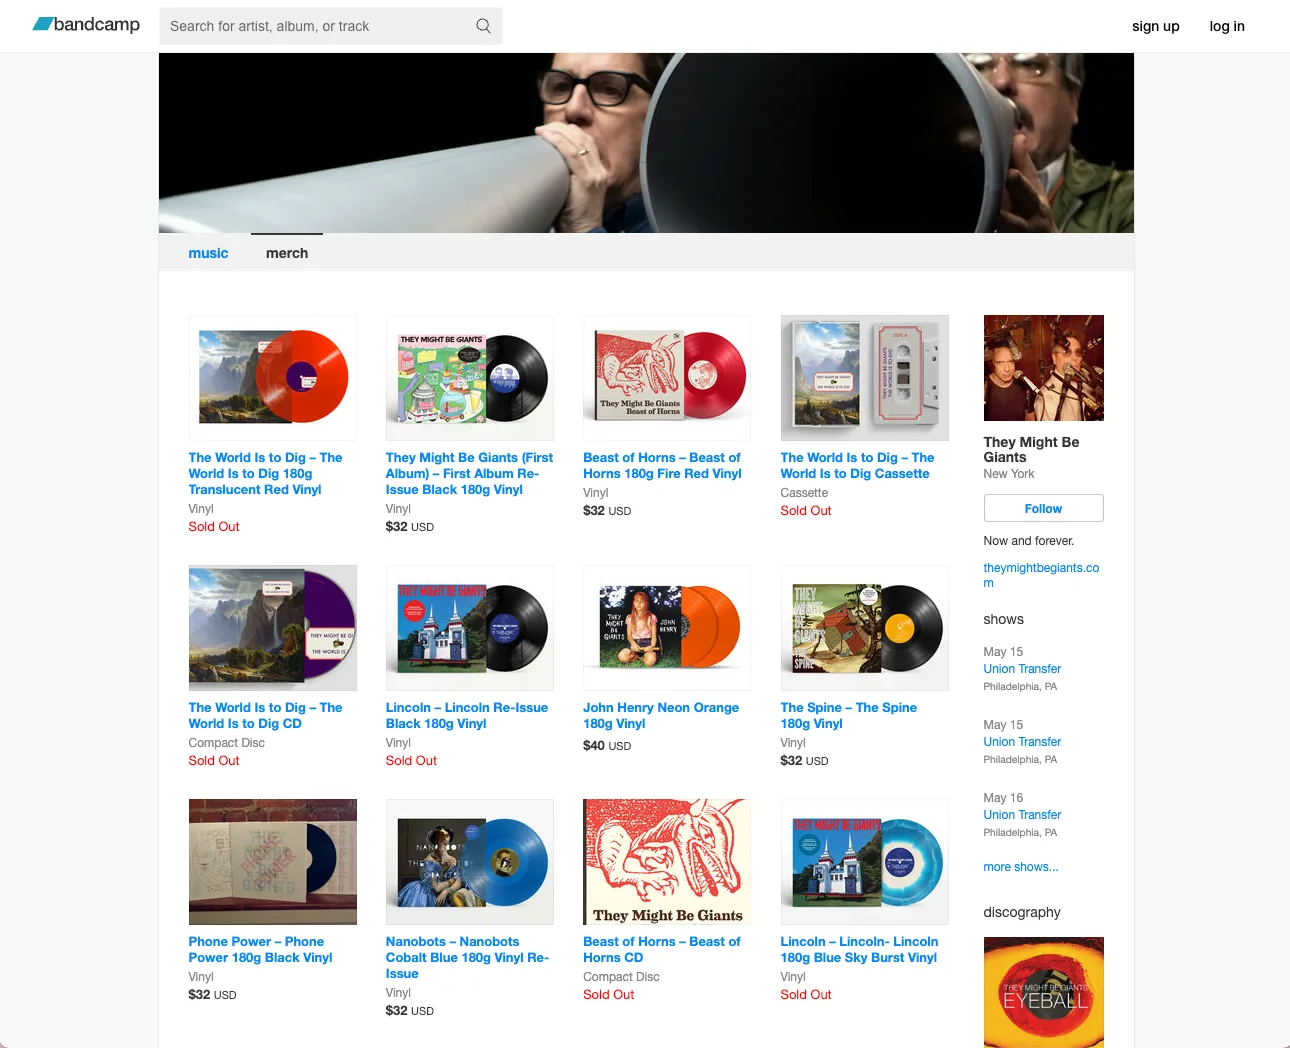
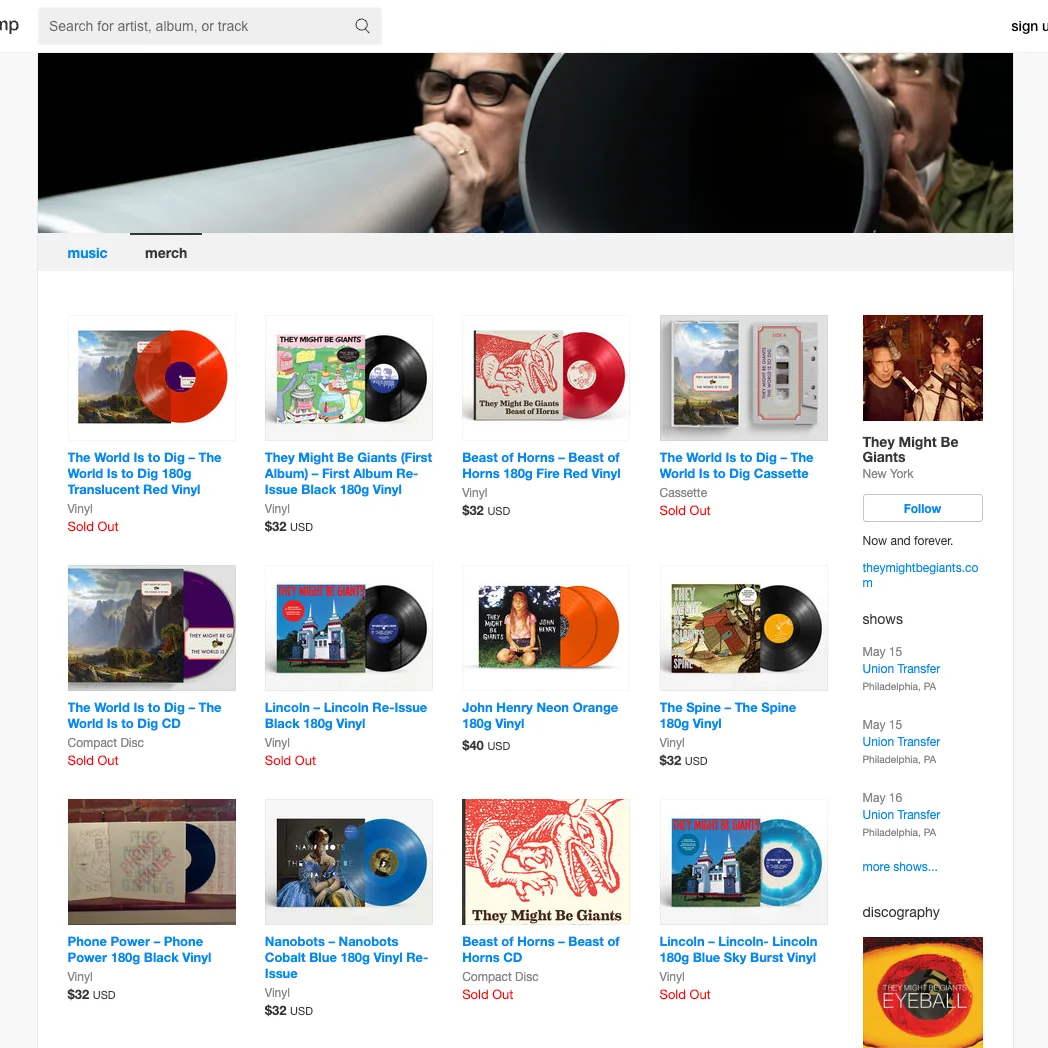
Bandcamp section: square-crop source and zoom out
Pre-cropped the source to 1048x1048 (center-cropped to square), so
object-fit cover doesn't have to throw away the header banner. Reduced
the rotated image's box from 140% to 128% (just above the 125% minimum
needed to cover a square after a 17deg rotation). Net effect is that
much more of the Bandcamp page is visible inside the frame, including
the megaphone header at the top.

diff --git a/style.css b/style.css
@@ -666,8 +666,8 @@ img { display: block; width: 100%; }
   position: absolute;
   top: 50%;
   left: 50%;
-  width: 140%;
-  height: 140%;
+  width: 128%;
+  height: 128%;
   object-fit: cover;
   transform: translate(-50%, -50%) rotate(-17deg);
 }
